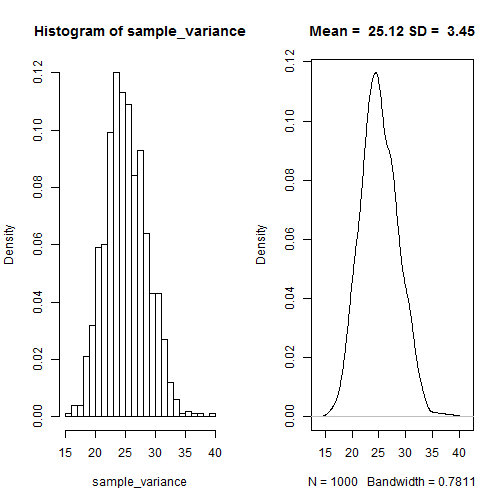
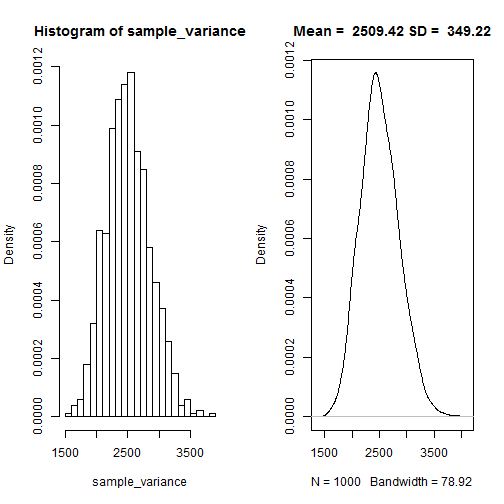
More revisions to Class 2

diff --git a/Class2/Class2.md b/Class2/Class2.md
@@ -238,10 +238,25 @@ Solution (5)
 Now reverse the idea
 =========================================================
 - Usually, we have no other information about a population but the sample we just collected.
-- For example, let's say the sample mean is 3 and the sample SD is 1. Apart from this, we know nothing about the population.
+- For example, let's say the sample mean is 0 and the sample SD is 1. Apart from this, we know nothing about the population.
 - Can we compute a CI for the sample mean?
 - Sure enough we can, but it gets a little more complicated.
   - (who would have thought?)
+
+
+What do these numbers mean?
+===========================================================
+- Anything, really.
+- But let's imagine that these numbers are from a survey of student's attitudes towards their Advanced Statistics class.
+  - Imagine that they could give a rating from -3 ("This is the worst class ever and I want the instructor fired!") to 3 ("This is the best class I've ever taken! I'm going to make so much money with my new R skills!"), with 0 representing a neutral feeling ("It's alright. At least it will be over soon").
+  - In this case, most students are pretty neutral about the class, but some really love it and some really hate it. 
+
+Computing a CI from the sample mean (story time)
+==========================================================
+- Consider the following scenario:
+
+> I have collected 10 responses to my class evaluation (the other students never turned their forms back in). The mean of the responses is 0 (apathy) and the sd is 1. Given that these 10 responses are just a small sample of the population, and that the population I'm really interested in is the population of all current and future Adv Stats students, is there anything I can say about the true population mean? Can I at least conclude that students didn't absolutely hate this class?
+
 
 Computing a CI from the sample mean
 ==========================================================
@@ -251,12 +266,6 @@ Computing a CI from the sample mean
 - Or the equivalent question: is sample variance ($s^2$) a good estimator of population variance ($\sigma^2$)?
 - This sounds like really tricky maths problem.
   - But we can take it easy and just simulate!
-
-What do these numbers mean?
-===========================================================
-- Anything, really.
-- But let's imagine that these numbers are from an experiment where people were asked how they feel about hungry cats.
-  - Imagine that they could give a rating from -4 (hate) to 4 (parental love).
 
 
 Set up a function to simulate sampling and calculate sample variances
@@ -268,12 +277,8 @@ run_variance_simulation <- function(sample_size = 100, number_of_simulations = 1
 
 sample_variances <- replicate(number_of_simulations, var(rnorm(n = sample_size, mean = population_mean, sd = population_sd)))
 }
-```
 
-Define a new plot function so that the plot titles are correct
-===========================================================
-
-```r
+#Define a new plot function so that the plot titles are correct
 make_variance_hist_and_plot <- function(sample_variance){
   par(mfrow=c(1,2)) # 
   hist(sample_variance,freq=F, breaks = 30)
@@ -284,7 +289,16 @@ Population variance and sample variance: plots
 ===========================================================
 
 ```r
-make_variance_hist_and_plot(run_variance_simulation(100,1000,20,5))
+make_variance_hist_and_plot(run_variance_simulation(sample_size = 100, number_of_simulations = 1000, population_mean = 20, population_sd = 5))
+```
+
+![plot of chunk unnamed-chunk-17](Class2-figure/unnamed-chunk-17.png) 
+
+Population variance and sample variance: plots
+===========================================================
+
+```r
+make_variance_hist_and_plot(run_variance_simulation(sample_size = 100, number_of_simulations = 1000, population_mean = 20, population_sd = 50))
 ```
 
 ![plot of chunk unnamed-chunk-18](Class2-figure/unnamed-chunk-18.png) 
@@ -293,19 +307,10 @@ Population variance and sample variance: plots
 ===========================================================
 
 ```r
-make_variance_hist_and_plot(run_variance_simulation(100,1000,20,5))
+make_variance_hist_and_plot(run_variance_simulation(sample_size = 100, number_of_simulations = 1000, population_mean = 20, population_sd = 500))
 ```
 
 ![plot of chunk unnamed-chunk-19](Class2-figure/unnamed-chunk-19.png) 
-
-Population variance and sample variance: plots
-===========================================================
-
-```r
-make_variance_hist_and_plot(run_variance_simulation(100,1000,20,5))
-```
-
-![plot of chunk unnamed-chunk-20](Class2-figure/unnamed-chunk-20.png) 
 
 Sample variance as an estimator of population variance
 ===========================================================
@@ -333,7 +338,7 @@ Dealing with the uncertainty in s
 See for yourselves
 ============================================================
 Solid = normal distribution, dashed = *t*-distribution
-![plot of chunk unnamed-chunk-21](Class2-figure/unnamed-chunk-21.png) 
+![plot of chunk unnamed-chunk-20](Class2-figure/unnamed-chunk-20.png) 
 
 Let's try this
 ==========================================================
@@ -372,7 +377,7 @@ Computing CIs (2)
 ```
 
 ```
-[1] 3.147
+[1] 2.828
 ```
 
 ```r
@@ -380,7 +385,7 @@ Computing CIs (2)
 ```
 
 ```
-[1] 0.8624
+[1] 1.304
 ```
 
 ```r
@@ -388,7 +393,7 @@ Computing CIs (2)
 ```
 
 ```
-[1] 2.53
+[1] 1.896
 ```
 
 ```r
@@ -396,7 +401,7 @@ Computing CIs (2)
 ```
 
 ```
-[1] 3.764
+[1] 3.761
 ```
 
 There's a function for that
@@ -411,13 +416,13 @@ t.test(sample_means)
 	One Sample t-test
 
 data:  sample_means
-t = 11.54, df = 9, p-value = 1.073e-06
+t = 6.861, df = 9, p-value = 7.383e-05
 alternative hypothesis: true mean is not equal to 0
 95 percent confidence interval:
- 2.530 3.764
+ 1.896 3.761
 sample estimates:
 mean of x 
-    3.147 
+    2.828 
 ```
 How convenient is that?
 
@@ -453,7 +458,7 @@ table(mean_in_ci)
 ```
 mean_in_ci
 FALSE  TRUE 
-   55   945 
+   60   940 
 ```
 - It's true! Almost exactly 5%
 
@@ -479,7 +484,7 @@ table(mean_in_ci)
 ```
 mean_in_ci
 FALSE  TRUE 
-   76   924 
+   74   926 
 ```
 - Larger than 5%! This is because the normal distribution is narrower than the t-distribution at low dfs.
 
@@ -494,7 +499,7 @@ table(mean_in_ci)
 ```
 mean_in_ci
 FALSE  TRUE 
-   43   957 
+   47   953 
 ```
 - Back at 5%! For large sample sizes it's fine to use the normal distribution instead of the t-distribution (of course, the t-distribution works anyway).
 - Could you have come up with this? You didn't have to thanks to the work William Sealy Gosset did back in 1908.
@@ -562,13 +567,13 @@ t.test(rnorm(n = 10, mean = 1, sd = 1))
 	One Sample t-test
 
 data:  rnorm(n = 10, mean = 1, sd = 1)
-t = 3.611, df = 9, p-value = 0.005649
+t = 3.416, df = 9, p-value = 0.00768
 alternative hypothesis: true mean is not equal to 0
 95 percent confidence interval:
- 0.3683 1.6034
+ 0.3307 1.6278
 sample estimates:
 mean of x 
-   0.9858 
+   0.9793 
 ```
 
 Two-tailed t-tests
@@ -624,7 +629,7 @@ Power
 
 Plotting the situation
 =========================================================
-![plot of chunk unnamed-chunk-34](Class2-figure/unnamed-chunk-34.png) 
+![plot of chunk unnamed-chunk-33](Class2-figure/unnamed-chunk-33.png) 
 
 Power simulations
 ==========================================================
@@ -642,7 +647,7 @@ table(replicate(1000, t_test_sim(10, .5, 1)))
 ```
 
 FALSE  TRUE 
-  725   275 
+  720   280 
 ```
 Not so great!
 
@@ -658,7 +663,7 @@ table(replicate(1000, t_test_sim(n = 10, mean = 1, sd = 1)))
 ```
 
 FALSE  TRUE 
-  210   790 
+  207   793 
 ```
 - The standard deviation (i.e. the noise) in the population is lower
 
@@ -669,7 +674,7 @@ table(replicate(1000, t_test_sim(n = 10, mean = .5, sd = .5)))
 ```
 
 FALSE  TRUE 
-  199   801 
+  219   781 
 ```
 
 How to increase power (realistically!)
@@ -684,7 +689,7 @@ table(replicate(1000, t_test_sim(n = 20, mean = .5, sd = 1))) # not quite enough
 ```
 
 FALSE  TRUE 
-  438   562 
+  449   551 
 ```
 
 ```r
@@ -694,7 +699,7 @@ table(replicate(1000, t_test_sim(n = 40, mean = .5, sd = 1))) # now we're talkin
 ```
 
 FALSE  TRUE 
-  137   863 
+  118   882 
 ```
 
 Double-checking our results
@@ -772,7 +777,7 @@ table(replicate(1000, t_test_cheating_sim(n_max = 30, n_increments = 2, sd = 1))
 ```
 
 FALSE  TRUE 
-  719   281 
+  734   266 
 ```
 - Whoa! False positive alert!
   - $\alpha$ is at 25%, instead of 5% where it should be.
@@ -815,14 +820,14 @@ paste("Mean =", round(mean(d_samples), 2), "SD = ", round(sd(d_samples),2))
 ```
 
 ```
-[1] "Mean = -9.93 SD =  4.51"
+[1] "Mean = -10.06 SD =  4.65"
 ```
 
 ```r
 hist(d_samples)
 ```
 
-![plot of chunk unnamed-chunk-44](Class2-figure/unnamed-chunk-44.png) 
+![plot of chunk unnamed-chunk-43](Class2-figure/unnamed-chunk-43.png) 
 
 The two-sample t-test (3)
 =========================================================
@@ -836,7 +841,7 @@ sd(d_samples)
 ```
 
 ```
-[1] 6.969
+[1] 6.916
 ```
 
 ```r
@@ -845,7 +850,7 @@ sd(d_samples)
 ```
 
 ```
-[1] 7.247
+[1] 7.22
 ```
 
 The two-sample t-test (3)
@@ -858,7 +863,7 @@ sd(d_samples)
 ```
 
 ```
-[1] 5.406
+[1] 5.434
 ```
 
 ```r
@@ -867,7 +872,7 @@ sd(d_samples)
 ```
 
 ```
-[1] 6.794
+[1] 6.484
 ```
 - Looks like the sd of this distribution goes up as the sd of the two sample populations goes up and goes down as the size of one or both of the samples goes down.
 
